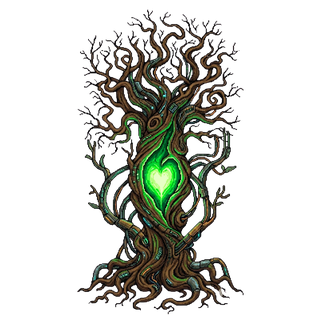
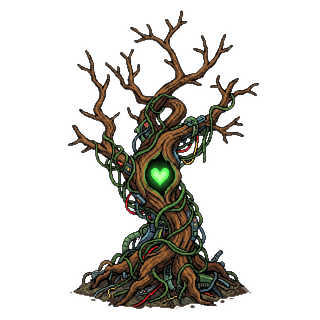
feat(trunk): replace with new 2-frame pixel art sprite
New trunk has natural pixel art style with green heart glow.
Cycles 2 frames at 400ms. Removed unused trunk-3.png.

Claude-Session: https://claude.ai/code/session_01LKQhrZqDGwX54zjjJsg1wp

Changed region(s): [[0.2188, 0.0312, 0.8125, 0.9688]]

diff --git a/src/components/Game/StoryGame.tsx b/src/components/Game/StoryGame.tsx
@@ -20,7 +20,7 @@ function ImagePreloader() {
     '/assets/ato3/estufa-ext.png', '/assets/ato3/estufa-light.png',
     '/assets/estufa/bg.jpg',
     '/assets/estufa/reflect-1.png', '/assets/estufa/reflect-2.png',
-    '/assets/estufa/trunk-1.png', '/assets/estufa/trunk-2.png', '/assets/estufa/trunk-3.png',
+    '/assets/estufa/trunk-1.png', '/assets/estufa/trunk-2.png',
     '/assets/ato3/sky.png',
     '/assets/ato3/mountain-back.png', '/assets/ato3/mountain-front.png',
     '/assets/ato3/tree-teal.png', '/assets/ato3/trees-green.png',
@@ -500,7 +500,7 @@ type BoulderState = 'idle' | 'shaking' | 'sinking' | 'gone';
 function TrunkSprite({ height }: { height: number }) {
   const [frame, setFrame] = useState(1);
   useEffect(() => {
-    const id = setInterval(() => setFrame(f => f === 3 ? 1 : f + 1), 350);
+    const id = setInterval(() => setFrame(f => f === 2 ? 1 : f + 1), 400);
     return () => clearInterval(id);
   }, []);
   return (
